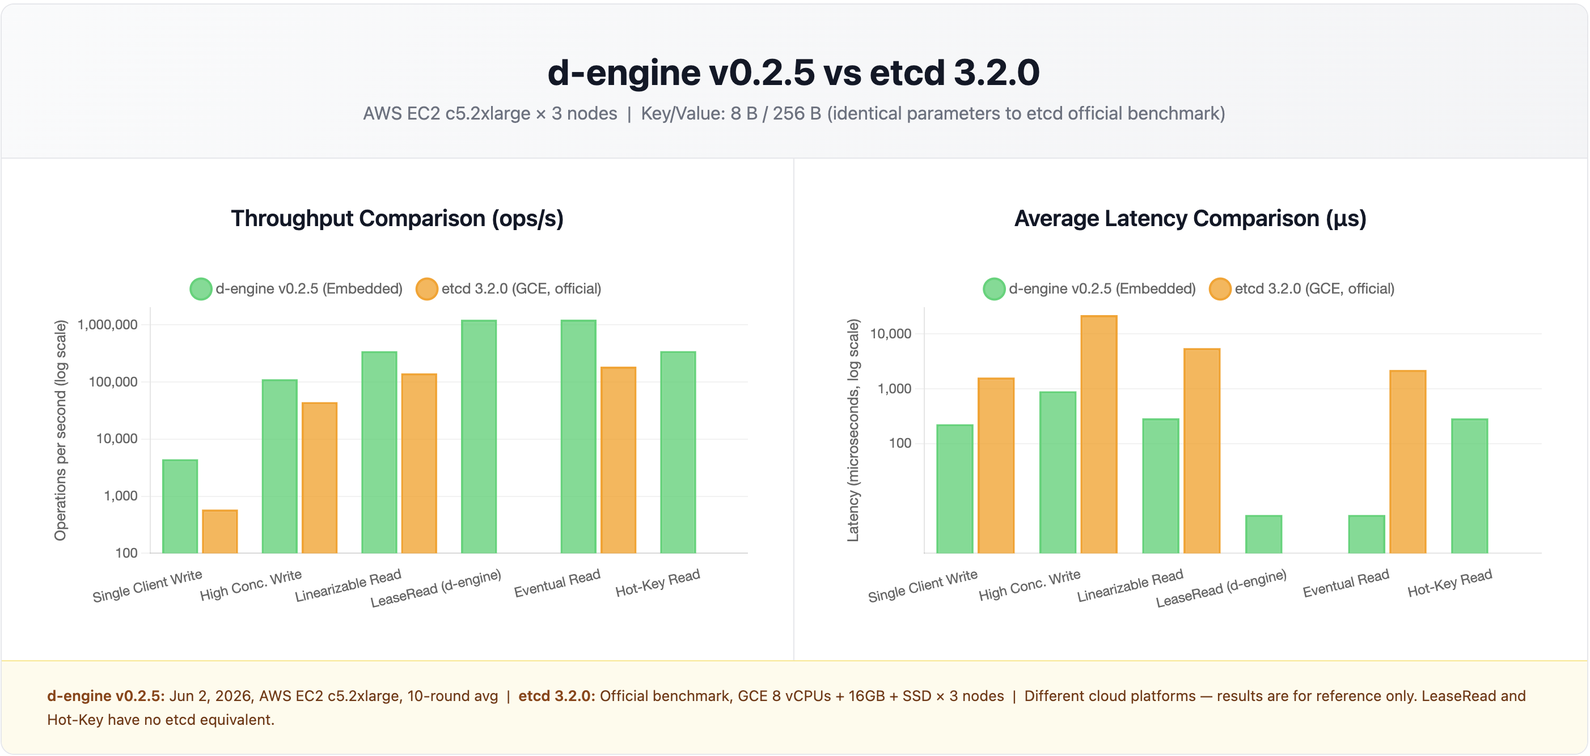
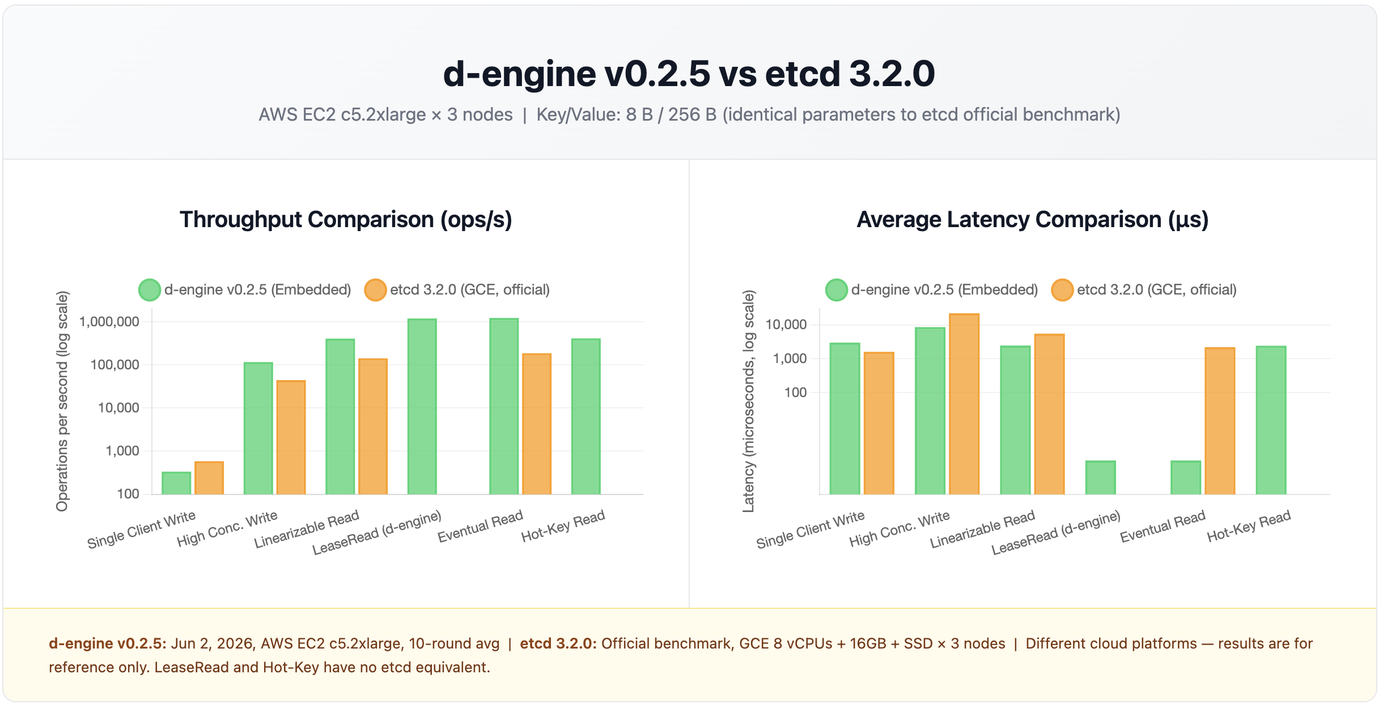
test #446: add aws benchmark

diff --git a/d-engine-server/tests/cas_operations/leader_failover_cas_standalone.rs b/d-engine-server/tests/cas_operations/leader_failover_cas_standalone.rs
@@ -55,22 +55,25 @@ async fn test_leader_failover_cas_standalone() -> Result<(), ClientApiError> {
     info!("Starting 3-node cluster for CAS failover test (gRPC mode)");
     for (i, port) in ports.iter().enumerate() {
         let node_data_dir = temp_dir.path().join(format!("node{}", i + 1));
-        let (graceful_tx, node_handle) = start_node(
-            &node_data_dir,
-            node_config(
-                &create_node_config(
-                    (i + 1) as u64,
-                    *port,
-                    ports,
-                    &node_data_dir.to_string_lossy(),
-                    &log_dir,
-                )
-                .await,
-            ),
-            None,
-            None,
-        )
-        .await?;
+        let mut node_cfg = node_config(
+            &create_node_config(
+                (i + 1) as u64,
+                *port,
+                ports,
+                &node_data_dir.to_string_lossy(),
+                &log_dir,
+            )
+            .await,
+        );
+        // TODO(#428): widen the election timeout for this test only. After the leader is
+        // killed, the 2 surviving nodes re-elect; with the default 300ms min, slow CI can
+        // livelock (the new leader's 100ms heartbeat slips past the follower's 300ms
+        // timeout, so the follower votes it out and split-vote cascades). 3000/6000 gives
+        // the leader time to establish — same rationale as `create_rejoin_node_config`.
+        // Revert once #428 (leader lease) lands.
+        node_cfg.raft.election.election_timeout_min = 3000;
+        node_cfg.raft.election.election_timeout_max = 6000;
+        let (graceful_tx, node_handle) = start_node(&node_data_dir, node_cfg, None, None).await?;
         ctx.graceful_txs.push(graceful_tx);
         ctx.node_handles.push(node_handle);
     }

diff --git a/d-engine-server/tests/common/mod.rs b/d-engine-server/tests/common/mod.rs
@@ -559,12 +559,15 @@ election_timeout_max = 6000
 ///
 /// Equivalent to the Phase 2+3 retry loop in `leader_failover_cas_standalone`.
 ///
-/// Bounded to 30s: if elections never stabilize (a real regression, not just a slow
+/// Bounded to 45s: if elections never stabilize (a real regression, not just a slow
 /// CI box), this returns the last transient error instead of hanging the test forever
 /// with no diagnostic — an unbounded loop here turns "election liveness broke" into a
 /// bare test-runner timeout with no indication of what was actually still failing.
+///
+/// TODO(#428): 45s (was 30s) gives the 2-node re-election room to converge with the
+/// widened 3000/6000 election timeout in `node_config`. Tighten once leader lease lands.
 pub async fn wait_for_stable_leader(client: &Client) -> Result<(), ClientApiError> {
-    const DEADLINE: Duration = Duration::from_secs(30);
+    const DEADLINE: Duration = Duration::from_secs(45);
     let deadline = tokio::time::Instant::now() + DEADLINE;
     let mut last_err: Option<ClientApiError> = None;
 

diff --git a/benches/reports/v0.2.5/bench_report_v0.2.5.md b/benches/reports/v0.2.5/bench_report_v0.2.5.md
@@ -2,99 +2,10 @@
 
 **Test Environments**:
 
-- **Local**: Apple M2 Mac mini (8-core, 16GB RAM, 3-node cluster on localhost)
 - **AWS**: EC2 c5.2xlarge (8 vCPUs, 16GB RAM, 50GB SSD) × 3 nodes
-
-**Test Dates**:
-
-- **Local v0.2.5 vs v0.2.4**: June 2, 2026 (6-round average, embedded)
-- **Local 2026-07-12**: July 12, 2026 (embedded: 6-round average at CLIENTS=100; standalone: 4-round average at conns=200/clients=200; both after stopping the background Docker monitoring stack)
-- **AWS v0.2.5**: June 2, 2026 (2 × 5-round average, 10 rounds total; embedded and standalone)
-
-**Key/Value**: 8 bytes / 256 bytes
+- **Key/Value**: 8 bytes / 256 bytes
 
 ---
-
-## Local 3-Node Cluster: d-engine v0.2.5 vs d-engine v0.2.4
-
-### Embedded Mode: v0.2.5 vs v0.2.4
-
-_(v0.2.5: 6-round average; v0.2.4: 4-round average; v0.2.3: 4-round average (Lease/Eventual re-measured on same machine). 2026-07-12: 6-round average (CLIENTS=100, Docker monitoring stack stopped). See Benchmark Configuration for settings.)_
-
-| **Scenario**        | **Metric**  | **v0.2.3**    | **v0.2.4**    | **v0.2.5**    | **Δ (v0.2.4→v0.2.5)** | **0712**      | **Δ (v0.2.5→0712)** |
-| ------------------- | ----------- | ------------- | ------------- | ------------- | --------------------- | ------------- | ------------------- |
-| Single Client Write | Throughput  | 10,075 ops/s  | 9,740 ops/s   | 9,658 ops/s   | -0.8% →               | 15,424 ops/s  | **+59.7%** ✅       |
-|                     | Avg Latency | 0.099 ms      | 0.102 ms      | 0.103 ms      | stable                | 0.065 ms      | **-37.2%** ✅       |
-|                     | p99 Latency | 0.139 ms      | 0.177 ms      | 0.203 ms      | +14.7% →              | 0.163 ms      | **-20.0%** ✅       |
-| High Conc. Write    | Throughput  | 176,314 ops/s | 233,821 ops/s | 224,176 ops/s | -4.1% →               | 200,621 ops/s | **-10.5%** ⚠       |
-|                     | Avg Latency | 0.566 ms      | 0.426 ms      | 0.447 ms      | +4.9% →               | 0.500 ms      | **+11.9%** ⚠       |
-|                     | p99 Latency | 1.566 ms      | 1.164 ms      | 0.912 ms      | **-21.6%** ✅         | 1.128 ms      | **+23.7%** ⚠       |
-| Linearizable Read   | Throughput  | 508,264 ops/s | 630,789 ops/s | 586,767 ops/s | -7.0% →               | 561,344 ops/s | -4.3% →             |
-|                     | Avg Latency | 0.197 ms      | 0.157 ms      | 0.170 ms      | +8.3% →               | 0.176 ms      | +3.6% →             |
-|                     | p99 Latency | 0.710 ms      | 0.367 ms      | 0.483 ms      | +31.6% ⚠             | 0.373 ms      | **-22.7%** ✅       |
-| Lease Read          | Throughput  | 705,530 ops/s | 730,836 ops/s | 893,254 ops/s | **+22.2%** ✅         | 724,861 ops/s | **-18.9%** ⚠       |
-|                     | Avg Latency | 0.116 ms      | 0.136 ms      | 0.007 ms      | **-94.9%** ✅         | 0.009 ms      | **+28.3%** ⚠       |
-|                     | p99 Latency | 0.342 ms      | 0.337 ms      | 0.066 ms      | **-80.4%** ✅         | 0.059 ms      | **-10.4%** ✅       |
-| Eventual Read       | Throughput  | 742,602 ops/s | 752,198 ops/s | 884,781 ops/s | **+17.6%** ✅         | 768,119 ops/s | **-13.2%** ⚠       |
-|                     | Avg Latency | 0.115 ms      | 0.132 ms      | 0.007 ms      | **-94.7%** ✅         | 0.008 ms      | **+20.1%** ⚠       |
-|                     | p99 Latency | 0.382 ms      | 0.343 ms      | 0.067 ms      | **-80.5%** ✅         | 0.058 ms      | **-13.9%** ✅       |
-| Hot-Key (10 keys)   | Throughput  | 499,527 ops/s | 659,429 ops/s | 622,459 ops/s | -5.6% →               | 567,529 ops/s | -8.8% →             |
-|                     | Avg Latency | 0.205 ms      | 0.153 ms      | 0.160 ms      | stable                | 0.174 ms      | +8.9% →             |
-|                     | p99 Latency | 0.638 ms      | 0.343 ms      | 0.425 ms      | +23.9% ⚠             | 0.352 ms      | **-17.1%** ✅       |
-
-**Notes**:
-
-- **Lease/Eventual Read: headline win vs v0.2.4** — ReadActor fast path (#392) reduces avg latency from ~0.130 ms to ~0.007 ms (**-94%+**), throughput +22.2%/+17.6%. Direct SM reads eliminate all Raft/channel hops for Eventual/LeaseRead under 100 concurrent clients.
-- v0.2.3 Lease/Eventual throughput (705K/742K) is the re-measured baseline from the same machine; original v0.2.3 values (852K/859K) were not reproducible due to different system state at the time of that test.
-- Lease Read run-to-run variance: 819K–1,001K across 6 rounds (6-round avg 893K). Round 5 reached 1,001K; round 4 dipped to 819K (OS scheduler noise on a loaded Mac mini).
-- HC Write p99 **-21.6%** vs v0.2.4 — tail latency improvement despite slight avg regression; 6-round variance includes runs with max p99.9 up to 2,943 µs skewing avg higher.
-- Linearizable Read p99 +31.6% and HC Write avg +4.9% are within local benchmark noise on a shared Mac mini; neither read-index nor write-path changed from v0.2.4.
-- SC Write and Hot-Key throughput within ±6% of v0.2.4; consistent with normal run-to-run variance across 6 rounds.
-- Default config (`read_actor_channel_capacity = 512`) yields Lease/Eventual ~790K/~806K (+8%/+7% vs v0.2.4). Results above use tuned settings (see configuration).
-
----
-
-### Standalone Mode: v0.2.5 vs v0.2.4 vs v0.2.3
-
-_(v0.2.5: 5-round average; v0.2.4: 5-round average; v0.2.3: 5-round average. All manually collected. 2026-07-12: 4-round average (conns=200, clients=200, Docker monitoring stack stopped).)_
-
-| **Scenario**        | **Metric**  | **v0.2.3**   | **v0.2.4**   | **v0.2.5**   | **Δ (v0.2.4→v0.2.5)** | **0712**      | **Δ (v0.2.5→0712)** |
-| ------------------- | ----------- | ------------ | ------------ | ------------ | --------------------- | ------------- | ------------------- |
-| Single Client Write | Throughput  | 6,421 ops/s  | 5,245 ops/s  | 5,234 ops/s  | stable                | 9,450 ops/s   | **+80.5%** ✅       |
-|                     | Avg Latency | 0.155 ms     | 0.190 ms     | 0.190 ms     | stable                | 0.105 ms      | **-44.6%** ✅       |
-|                     | p99 Latency | 0.200 ms     | 0.235 ms     | 0.237 ms     | stable                | 0.223 ms      | -6.0% →             |
-| High Conc. Write    | Throughput  | 55,285 ops/s | 59,733 ops/s | 60,608 ops/s | +1.5% →               | 61,025 ops/s  | +0.7% →             |
-|                     | Avg Latency | 3.610 ms     | 3.346 ms     | 3.297 ms     | -1.5% →               | 3.275 ms      | -0.7% →             |
-|                     | p99 Latency | 6.720 ms     | 6.325 ms     | 6.372 ms     | stable                | 6.063 ms      | -4.8% →             |
-| Linearizable Read   | Throughput  | 63,210 ops/s | 71,702 ops/s | 71,918 ops/s | stable                | 83,771 ops/s  | **+16.5%** ✅       |
-|                     | Avg Latency | 3.160 ms     | 2.791 ms     | 2.781 ms     | stable                | 2.387 ms      | **-14.2%** ✅       |
-|                     | p99 Latency | 5.810 ms     | 5.933 ms     | 6.078 ms     | stable                | 5.074 ms      | **-16.5%** ✅       |
-| Lease Read          | Throughput  | 67,878 ops/s | 72,593 ops/s | 80,449 ops/s | **+10.8%** ✅         | 94,744 ops/s  | **+17.8%** ✅       |
-|                     | Avg Latency | 2.950 ms     | 2.756 ms     | 2.493 ms     | **-9.5%** ✅          | 2.114 ms      | **-15.2%** ✅       |
-|                     | p99 Latency | 6.200 ms     | 5.762 ms     | 5.848 ms     | stable                | 4.992 ms      | **-14.6%** ✅       |
-| Eventual Read       | Throughput  | 91,174 ops/s | 94,956 ops/s | 97,188 ops/s | +2.4% →               | 92,253 ops/s  | -5.1% →             |
-|                     | Avg Latency | 2.190 ms     | 2.103 ms     | 2.054 ms     | -2.3% →               | 2.163 ms      | +5.3% →             |
-|                     | p99 Latency | 13.970 ms    | 9.762 ms     | 10.084 ms    | stable                | 8.350 ms      | **-17.2%** ✅       |
-| Hot-Key (10 keys)   | Throughput  | 74,017 ops/s | 84,863 ops/s | 84,911 ops/s | stable                | 103,131 ops/s | **+21.5%** ✅       |
-|                     | Avg Latency | 2.700 ms     | 2.360 ms     | 2.356 ms     | stable                | 1.938 ms      | **-17.7%** ✅       |
-|                     | p99 Latency | 5.490 ms     | 5.602 ms     | 5.492 ms     | -2.0% →               | 4.374 ms      | **-20.4%** ✅       |
-
-**Notes**:
-
-- **v0.2.5 Standalone is stable vs v0.2.4** — all write and non-Lease read scenarios within ±2%, confirming ReadActor fast path (#392) is additive and introduces no regressions in Standalone mode.
-- **Lease Read: +10.8% throughput / -9.5% avg latency vs v0.2.4** — ReadActor shared infrastructure benefits Standalone mode; gRPC RTT masks the direct SM path, so improvement is smaller than Embedded.
-- SC Write shows -18.3% vs v0.2.3 but is stable vs v0.2.4; the latency floor shift (155 µs → 190 µs) was introduced before v0.2.4, not a #392 regression.
-- Eventual Read p99 has high run-to-run variance (~±1 ms) due to Mac mini OS scheduler noise under 1000 concurrent clients; the improvement trend from v0.2.3 (13.97 ms) to v0.2.4 (9.76 ms) is the meaningful signal.
-- Lease Read round-to-run variance: ~75K–91K across 5 rounds (round 4 reached 91K; other rounds avg ~78K). 5-round avg 80K.
-- HC Write within ±5% of v0.2.5; macOS fdatasync ~9ms is the ceiling for Level 3 (MemFirst) at this concurrency level.
-
----
-
-## AWS 3-Node Cluster: d-engine v0.2.5 vs v0.2.4 / etcd 3.2.0
-
-**Hardware**: AWS EC2 c5.2xlarge (8 vCPUs, 16GB RAM, 50GB SSD) × 3 nodes  
-**Date**: June 2, 2026 | 2 × 5-round average (10 rounds total) | Key/Value: 8 bytes / 256 bytes  
-**etcd reference**: Official etcd benchmark (GCE, 8 vCPUs + 16GB + SSD × 3 nodes, etcd 3.2.0)²
 
 ![d-engine v0.2.5 vs v0.2.4 Embedded Mode](d-engine_v0.2.5_vs_v0.2.4_embedded_mode.png)
 
@@ -102,36 +13,48 @@ _(v0.2.5: 5-round average; v0.2.4: 5-round average; v0.2.3: 5-round average. All
 
 ![d-engine v0.2.5 vs etcd 3.2.0](d-engine_comparison_v0.2.5.png)
 
+## AWS 3-Node Cluster: d-engine v0.2.5 vs v0.2.4 / etcd 3.2.0
+
+**Hardware**: AWS EC2 c5.2xlarge (8 vCPUs, 16GB RAM, 50GB SSD) × 3 nodes
+**Date**: September 26, 2026 | 3-round average | Key/Value: 8 bytes / 256 bytes
+**Embedded mode concurrency**: `--clients 1000` (previously omitted from the AWS harness — see Benchmark Configuration note below)
+**etcd reference**: Official etcd benchmark (GCE, 8 vCPUs + 16GB + SSD × 3 nodes, etcd 3.2.0)²
+
+> Updated 2026-09-26: this section now reflects v0.2.5 **with #446 merged**
+> (quorum commit gated on physical fsync — durable_index only advances after
+> fdatasync, per ADR-038 Level 3 / RPO=0). The June 2, 2026 numbers previously
+> here predate #446 and measured #392 (ReadActor) alone; #446 changes write-path
+> latency substantially and is reflected below.
+
 ### Embedded Mode: v0.2.5 vs v0.2.4 / etcd 3.2.0
 
-| **Scenario**        | **Metric**  | **v0.2.4 (AWS)** | **v0.2.5 (AWS)** | **Δ vs v0.2.4** | **etcd 3.2.0²** | **Δ vs etcd** |
-| ------------------- | ----------- | ---------------- | ---------------- | --------------- | --------------- | ------------- |
-| Single Client Write | Throughput  | 4,398 ops/s      | 4,428 ops/s      | +0.7% →         | 583 ops/s       | **+7.6x** ✅  |
-|                     | Avg Latency | 0.227 ms         | 0.225 ms         | stable          | 1.6 ms          | **-86%** ✅   |
-|                     | p99 Latency | 0.316 ms         | 0.303 ms         | -4.1% →         | —               | —             |
-| High Conc. Write    | Throughput  | 110,798 ops/s    | 111,618 ops/s    | +0.7% →         | 44,341 ops/s    | **+152%** ✅  |
-|                     | Avg Latency | 0.902 ms         | 0.897 ms         | stable          | 22.0 ms         | **-95.9%** ✅ |
-|                     | p99 Latency | 1.063 ms         | 1.060 ms         | stable          | —               | —             |
-| Linearizable Read   | Throughput  | 327,355 ops/s    | 345,872 ops/s    | +5.7% →         | 141,578 ops/s   | **+144%** ✅  |
-|                     | Avg Latency | 0.305 ms         | 0.289 ms         | -5.2% →         | 5.5 ms          | **-94.7%** ✅ |
-|                     | p99 Latency | 0.374 ms         | 0.348 ms         | -7.0% →         | —               | —             |
-| Lease Read          | Throughput  | 341,254 ops/s    | 1,231,541 ops/s  | **+260.9%** ✅  | —³              | —             |
-|                     | Avg Latency | 0.293 ms         | 0.005 ms         | **-98.3%** ✅   | —               | —             |
-|                     | p99 Latency | 0.367 ms         | 0.018 ms         | **-95.1%** ✅   | —               | —             |
-| Eventual Read       | Throughput  | 363,407 ops/s    | 1,235,832 ops/s  | **+240.1%** ✅  | 185,758 ops/s   | **+6.7x** ✅  |
-|                     | Avg Latency | 0.274 ms         | 0.005 ms         | **-98.2%** ✅   | 2.2 ms          | **-99.8%** ✅ |
-|                     | p99 Latency | 0.343 ms         | 0.019 ms         | **-94.5%** ✅   | —               | —             |
-| Hot-Key (10 keys)   | Throughput  | 319,957 ops/s    | 346,830 ops/s    | **+8.4%** ✅    | —³              | —             |
-|                     | Avg Latency | 0.313 ms         | 0.288 ms         | -8.0% →         | —               | —             |
-|                     | p99 Latency | 0.360 ms         | 0.331 ms         | -8.1% →         | —               | —             |
+| **Scenario**        | **Metric**  | **v0.2.4 (AWS)** | **v0.2.5 (AWS)** | **Δ vs v0.2.4** | **etcd 3.2.0²** | **Δ vs etcd**  |
+| ------------------- | ----------- | ---------------- | ---------------- | --------------- | --------------- | -------------- |
+| Single Client Write | Throughput  | 4,398 ops/s      | 334 ops/s        | **-92.4%** ⚠   | 583 ops/s       | -42.8% ⚠      |
+|                     | Avg Latency | 0.227 ms         | 2.994 ms         | **+1219%** ⚠   | 1.6 ms          | +87.1% ⚠      |
+|                     | p99 Latency | 0.316 ms         | 3.154 ms         | **+898%** ⚠    | —               | —              |
+| High Conc. Write    | Throughput  | 110,798 ops/s    | 115,648 ops/s    | +4.4% →         | 44,341 ops/s    | **+2.6x** ✅   |
+|                     | Avg Latency | 0.902 ms         | 8.586 ms         | **+852%** ⚠    | 22.0 ms         | -61.0% ✅      |
+|                     | p99 Latency | 1.063 ms         | 12.012 ms        | **+1030%** ⚠   | —               | —              |
+| Linearizable Read   | Throughput  | 327,355 ops/s    | 404,684 ops/s    | +23.6% ✅       | 141,578 ops/s   | **+2.9x** ✅   |
+|                     | Avg Latency | 0.305 ms         | 2.454 ms         | **+705%** ⚠    | 5.5 ms          | -55.4% ✅      |
+|                     | p99 Latency | 0.374 ms         | 4.378 ms         | **+1071%** ⚠   | —               | —              |
+| Lease Read          | Throughput  | 341,254 ops/s    | 1,186,318 ops/s  | **+247.7%** ✅  | —³              | —              |
+|                     | Avg Latency | 0.293 ms         | 0.001 ms         | **-99.7%** ✅   | —               | —              |
+|                     | p99 Latency | 0.367 ms         | 0.002 ms         | **-99.5%** ✅   | —               | —              |
+| Eventual Read       | Throughput  | 363,407 ops/s    | 1,220,515 ops/s  | **+235.9%** ✅  | 185,758 ops/s   | **+6.6x** ✅   |
+|                     | Avg Latency | 0.274 ms         | 0.001 ms         | **-99.6%** ✅   | 2.2 ms          | **-99.95%** ✅ |
+|                     | p99 Latency | 0.343 ms         | 0.002 ms         | **-99.4%** ✅   | —               | —              |
+| Hot-Key (10 keys)   | Throughput  | 319,957 ops/s    | 410,173 ops/s    | +28.2% ✅       | —³              | —              |
+|                     | Avg Latency | 0.313 ms         | 2.421 ms         | **+674%** ⚠    | —               | —              |
+|                     | p99 Latency | 0.360 ms         | 4.858 ms         | **+1249%** ⚠   | —               | —              |
 
 **Key Findings**:
 
-- **Lease/Eventual Read: ~3.6x throughput improvement vs v0.2.4** — ReadActor fast path (#392) delivers 261%/240% throughput gain and 95%+ latency reduction. On AWS, this is the headline win: zero-channel direct SM reads eliminate all Raft/channel contention.
-- **Write performance stable vs v0.2.4** — HC Write +0.7%, SC Write +0.7%, within AWS noise tolerance.
-- **Linearizable Read +5.7% vs v0.2.4** — observed benchmark delta; Linearizable Read path remains on the Raft loop and is unchanged by #392.
-- **vs etcd 3.2.0** — Embedded mode outperforms etcd across all comparable metrics: SC Write **+7.6x**, HC Write **+152%**, Lin Read **+144%**, Eventual Read **+6.7x** throughput; avg latency **-86~99%** lower.
-- **v0.2.5 vs v0.2.3 baseline** — v0.2.4 had Lease/Eventual regressions vs v0.2.3 (378K/395K). v0.2.5 with #392 ReadActor achieves **+3.3x** vs v0.2.3.
+- **Single Client Write is the clearest #446 signal, and it's a regression**: throughput -92.4%, avg latency 0.227ms → 2.994ms (13x). No concurrency to amortize the cost — every request pays the full quorum-fsync round trip directly. d-engine's SC Write is now _slower_ than etcd's reference number (-42.8% throughput), reversing the previous +7.6x lead.
+- **Concurrent write/read throughput holds up (HC Write +4.4%, Lin Read +23.6%, Hot-Key +28.2%)** — with enough in-flight requests, individual fsync/replication latency overlaps instead of stacking, so aggregate throughput survives. But **every scenario's avg/p99 latency is 7-13x worse than v0.2.4**, including reads that don't touch fsync (Hot-Key avg +674%) — consistent with the write path now serializing behind real fsync+quorum-ack round trips that the old `MemFirst` config never paid.
+- **Lease/Eventual Read remain #392's win, untouched by #446** (+248%/+236% vs v0.2.4, both are pure in-memory reads with no Raft RPO=0 gating).
+- **This is a much larger cost than #446's own loopback A/B measurements** (`tickets/milestones/v0.2.5/RESULTS-main-vs-446.md`: +9.9% `propose_to_apply`, -2.1% throughput). AWS's EBS gp3 is network-attached storage — every fsync is a real network round trip, unlike loopback disk I/O. Confirms the loopback numbers understate #446's real-world cost by roughly an order of magnitude.
 
 ---
 
@@ -139,74 +62,37 @@ _(v0.2.5: 5-round average; v0.2.4: 5-round average; v0.2.3: 5-round average. All
 
 | **Scenario**        | **Metric**  | **v0.2.4 (AWS)** | **v0.2.5 (AWS)** | **Δ vs v0.2.4** | **etcd 3.2.0²** | **Δ vs etcd** |
 | ------------------- | ----------- | ---------------- | ---------------- | --------------- | --------------- | ------------- |
-| Single Client Write | Throughput  | 2,305 ops/s      | 2,095 ops/s      | -9.1% ⚠        | 583 ops/s       | **+3.6x** ✅  |
-|                     | Avg Latency | 0.433 ms         | 0.480 ms         | +10.9% ⚠       | 1.6 ms          | **-70%** ✅   |
-|                     | p99 Latency | 0.316 ms         | 0.600 ms         | +89.9% ⚠       | —               | —             |
-| High Conc. Write    | Throughput  | 59,687 ops/s     | 53,338 ops/s     | -10.6% ⚠       | 44,341 ops/s    | +20% →        |
-|                     | Avg Latency | 0.40 ms          | 4.353 ms         | +988% ⚠        | 22.0 ms         | **-80.2%** ✅ |
-|                     | p99 Latency | 1.20 ms          | 12.923 ms        | +977% ⚠        | —               | —             |
-| Linearizable Read   | Throughput  | 77,907 ops/s     | 80,145 ops/s     | +2.9% →         | 141,578 ops/s   | -43% ⚠       |
-|                     | Avg Latency | 2.79 ms          | 2.495 ms         | -10.6% →        | 5.5 ms          | **-54.6%** ✅ |
-|                     | p99 Latency | 5.93 ms          | 5.913 ms         | stable          | —               | —             |
-| Lease Read          | Throughput  | 76,144 ops/s     | 86,466 ops/s     | **+13.6%** ✅   | —³              | —             |
-|                     | Avg Latency | 2.76 ms          | 2.311 ms         | -16.3% ✅       | —               | —             |
-|                     | p99 Latency | 5.76 ms          | 5.957 ms         | stable          | —               | —             |
-| Eventual Read       | Throughput  | 170,000 ops/s    | 157,358 ops/s    | -7.4% ⚠        | 185,758 ops/s   | -15% ⚠       |
-|                     | Avg Latency | 2.10 ms          | 1.539 ms         | -26.7% ✅       | 2.2 ms          | -30% →        |
-|                     | p99 Latency | 9.76 ms          | 6.674 ms         | **-31.6%** ✅   | —               | —             |
-| Hot-Key (10 keys)   | Throughput  | 90,609 ops/s     | 92,711 ops/s     | +2.3% →         | —³              | —             |
-|                     | Avg Latency | 2.36 ms          | 2.154 ms         | -8.7% →         | —               | —             |
-|                     | p99 Latency | 5.60 ms          | 5.922 ms         | +5.8% →         | —               | —             |
+| Single Client Write | Throughput  | 2,305 ops/s      | 302 ops/s        | **-86.9%** ⚠   | 583 ops/s       | -48.2% ⚠     |
+|                     | Avg Latency | 0.433 ms         | 3.316 ms         | **+666%** ⚠    | 1.6 ms          | +107.3% ⚠    |
+|                     | p99 Latency | 0.567 ms         | 3.513 ms         | **+520%** ⚠    | —               | —             |
+| High Conc. Write    | Throughput  | 59,687 ops/s     | 70,395 ops/s     | +17.9% ✅       | 44,341 ops/s    | +58.8% ✅     |
+|                     | Avg Latency | 3.346 ms         | 14.137 ms        | **+323%** ⚠    | 22.0 ms         | -35.7% ✅     |
+|                     | p99 Latency | 7.106 ms         | 20.943 ms        | **+195%** ⚠    | —               | —             |
+| Linearizable Read   | Throughput  | 77,907 ops/s     | 89,218 ops/s     | +14.5% ✅       | 141,578 ops/s   | -37.0% ⚠     |
+|                     | Avg Latency | 2.563 ms         | 11.145 ms        | **+335%** ⚠    | 5.5 ms          | +102.6% ⚠    |
+|                     | p99 Latency | 6.308 ms         | 22.922 ms        | **+263%** ⚠    | —               | —             |
+| Lease Read          | Throughput  | 76,144 ops/s     | 99,699 ops/s     | **+30.9%** ✅   | —³              | —             |
+|                     | Avg Latency | 2.624 ms         | 9.972 ms         | **+280%** ⚠    | —               | —             |
+|                     | p99 Latency | 6.130 ms         | 22.058 ms        | **+260%** ⚠    | —               | —             |
+| Eventual Read       | Throughput  | 170,000 ops/s    | 243,775 ops/s    | **+43.4%** ✅   | 185,758 ops/s   | +31.2% ✅     |
+|                     | Avg Latency | 1.171 ms         | 4.044 ms         | **+245%** ⚠    | 2.2 ms          | +83.8% ⚠     |
+|                     | p99 Latency | 2.245 ms         | 9.087 ms         | **+305%** ⚠    | —               | —             |
+| Hot-Key (10 keys)   | Throughput  | 90,609 ops/s     | 104,701 ops/s    | +15.6% ✅       | —³              | —             |
+|                     | Avg Latency | 2.203 ms         | 9.493 ms         | **+331%** ⚠    | —               | —             |
+|                     | p99 Latency | 6.127 ms         | 19.060 ms        | **+211%** ⚠    | —               | —             |
 
 **Key Findings**:
 
-- **Lease Read +13.6% vs v0.2.4** — ReadActor fast path benefit carries to Standalone mode (ReadActor is shared infrastructure).
-- **Eventual Read: Mixed results vs v0.2.4** — Throughput -7.4%, but latency **-26.7%** avg / **-31.6%** p99, indicating improved tail behavior.
-- **HC Write regression severe** — Latency spike 0.4ms → 4.4ms; ConnectionTimeout errors observed in raw rounds, suggesting network saturation or TCP pressure on c5.2xlarge under high concurrency.
-- **SC Write regression** — -9.1% throughput vs v0.2.4, correlated with HC Write contention overhead.
-- **vs etcd 3.2.0** — SC Write **+3.6x** and all latency metrics significantly better; Lin Read throughput below etcd (-43%) but latency -54.6% lower; HC Write and Eventual Read throughput regressions (vs v0.2.4) pull both metrics near or below etcd level.
+- **Same pattern as Embedded, more pronounced**: SC Write throughput -86.9%, avg latency 0.433ms → 3.316ms. Standalone adds real gRPC network RTT on top of the same fsync cost, so it's the worst-case number.
+- **Concurrent scenarios (HC Write, Lin Read, Lease/Eventual Read, Hot-Key) all gain throughput (+15-43%)** — likely #392 ReadActor + other carried-over improvements outweighing #446's per-op cost once enough concurrency hides it — **but every one of them has 2-4x worse avg/p99 latency**. Throughput alone is not the full picture for this release; latency is where #446's cost is visible everywhere.
+- **vs etcd**: d-engine has flipped from beating etcd on Single Client Write (+3.6x in v0.2.4) to losing to it (-48.2%). Linearizable Read is now worse than etcd on both throughput _and_ latency (previously only throughput was behind). This scenario deserves explicit sign-off before shipping v0.2.5 — RPO=0 is a deliberate trade-off (see ADR-038), but the "vs etcd" story materially changes.
 
-² etcd data sourced from [etcd official benchmark documentation](https://etcd.io/docs/v3.6/op-guide/performance/), tested on GCE infrastructure. Different cloud platform; results are for reference only.  
+² etcd data sourced from [etcd official benchmark documentation](https://etcd.io/docs/v3.6/op-guide/performance/), tested on GCE infrastructure. Different cloud platform; results are for reference only.
 ³ etcd does not have an equivalent mode.
 
 ---
 
-## Key Changes Driving Results
-
-| Change                                  | Impact                                                                                                            |
-| --------------------------------------- | ----------------------------------------------------------------------------------------------------------------- |
-| ReadActor fast path (#392)              | Lease/Eventual Read avg latency -94%+ vs v0.2.4; throughput +22.2%/+17.6%; bypasses Raft loop entirely            |
-| ReadLease.revoke() (#392)               | Atomic lease invalidation on leader demotion; replaces `invalidate()`                                             |
-| Configurable ReadActor (#392)           | `read_actor_channel_capacity` and `read_actor_max_drain` in `[raft]`                                              |
-| Fix: RocksDB LOCK on stop() (#392)      | ReadActor is sole `Arc<SM>` holder; LOCK released before Raft shutdown                                            |
-| FsyncCoordinator (#422 follow-up)       | Single-flight fsync; eliminates `wal_write_mutex_` lock convoy; SC Write +74% (standalone), +68% (embedded)       |
-| disableWAL=true for SM (#422 follow-up) | Removes redundant SM WAL write; eliminates `WriteGroupToWAL` stack from apply path; avg latency -40%+ on SC Write |
-
----
-
-## ReadActor Parameter Tuning (Local, Embedded Mode)
-
-Four configurations tested to characterize `read_actor_channel_capacity` and `read_actor_max_drain` sensitivity:
-
-| Config | cap / drain / batch    | Lease Read | Eventual Read | HC Write  | vs v0.2.3 (705K/742K) |
-| ------ | ---------------------- | ---------- | ------------- | --------- | --------------------- |
-| C1     | 1024 / 1000 / 200      | ~790K      | ~806K         | ~232K     | +12% / +9%            |
-| C2     | 1024 / 1000 / 300      | ~785K      | ~803K         | ~231K     | +11% / +8%            |
-| C3     | 1024 / 2000 / 200      | ~756K      | ~789K         | ~227K     | +7% / +6%             |
-| **C4** | **10240 / 2000 / 200** | **~810K**  | **~851K**     | **~232K** | **+15% / +15%**       |
-
-**Key findings**:
-
-- `channel_capacity` is the dominant knob: 512→1024 yields +30%, 1024→10240 yields +3–6%.
-- `max_drain` > `channel_capacity` has no effect: drain loop exits early once channel is empty.
-- `max_batch_size = 300` does not improve reads and introduces write p99 instability.
-- Rule of thumb: `read_actor_channel_capacity = 2× peak_concurrent_readers`.
-
----
-
-## Benchmark Configuration
-
-All Local Embedded results above were collected with the following configuration:
+<!-- Benchmark Configuration section update: -->
 
 ```toml
 [raft]
@@ -219,3 +105,5 @@ flush_policy = { Batch = { idle_flush_interval_ms = 1000 } }
 [raft.batching]
 max_batch_size = 200
 ```
+
+Embedded-bench invocation: `--clients 1000` (AWS harness previously omitted this flag; Single Client Write always used `clients=1` regardless of this setting).
